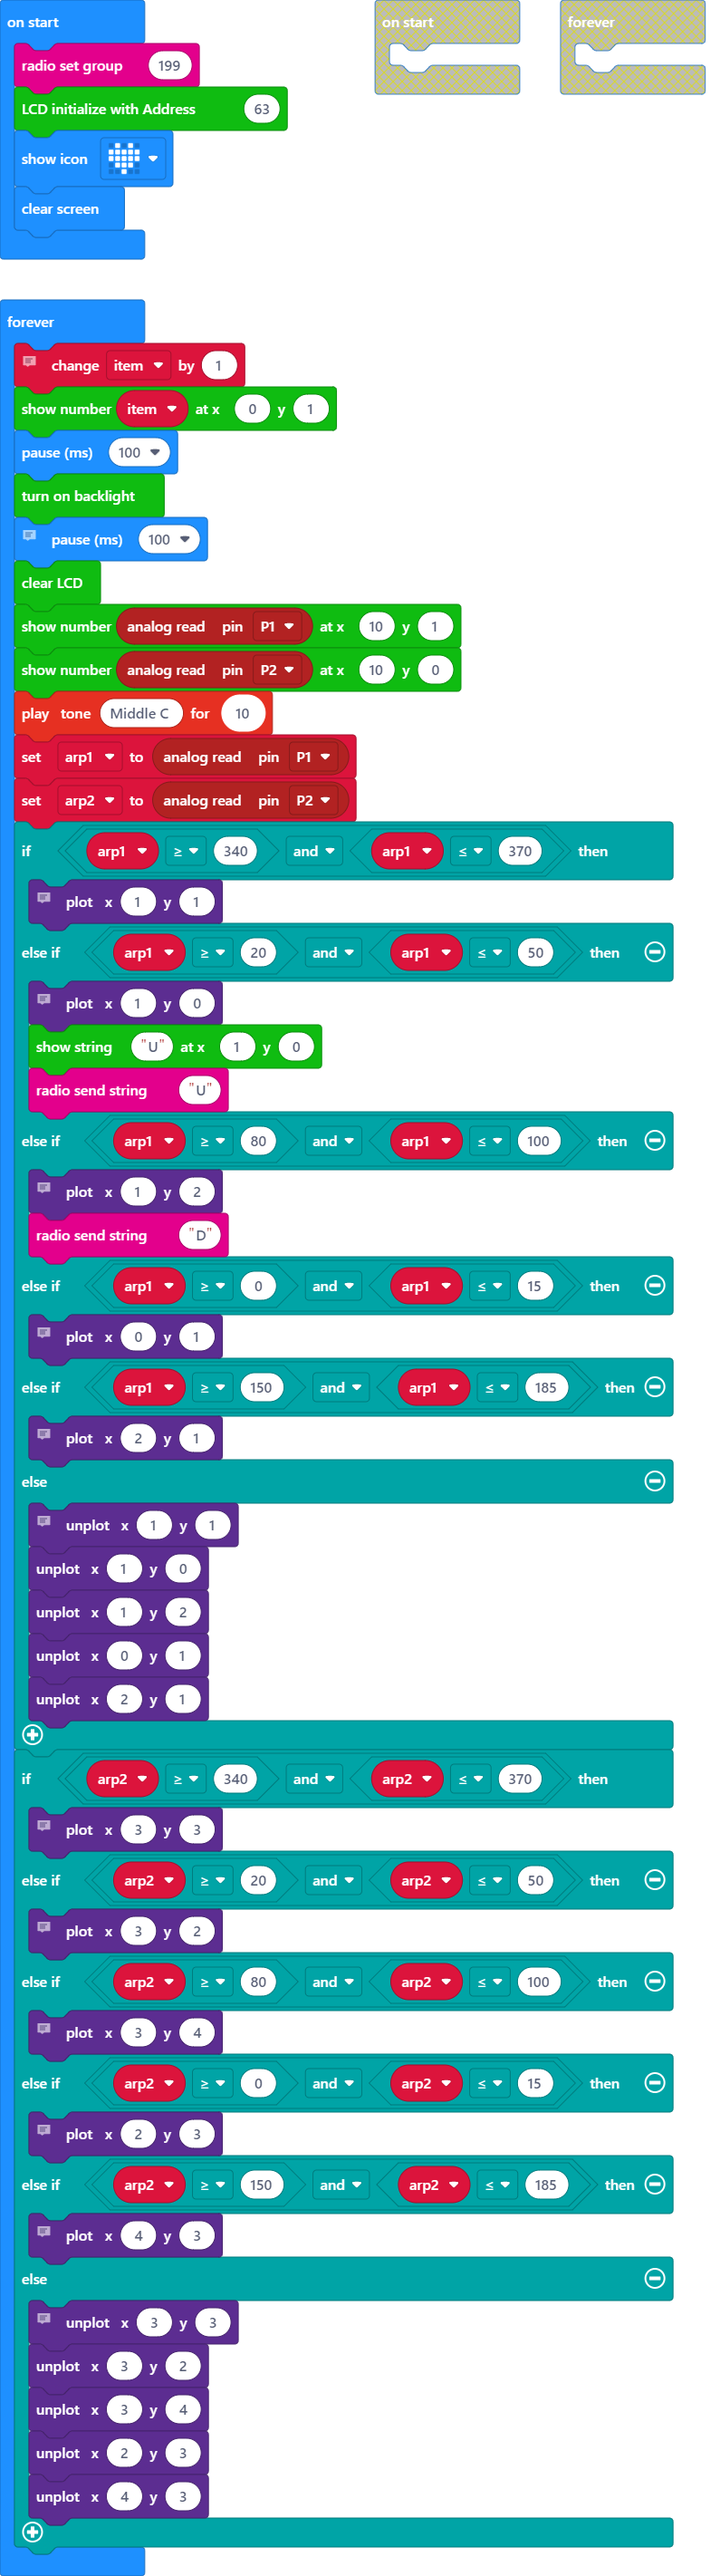
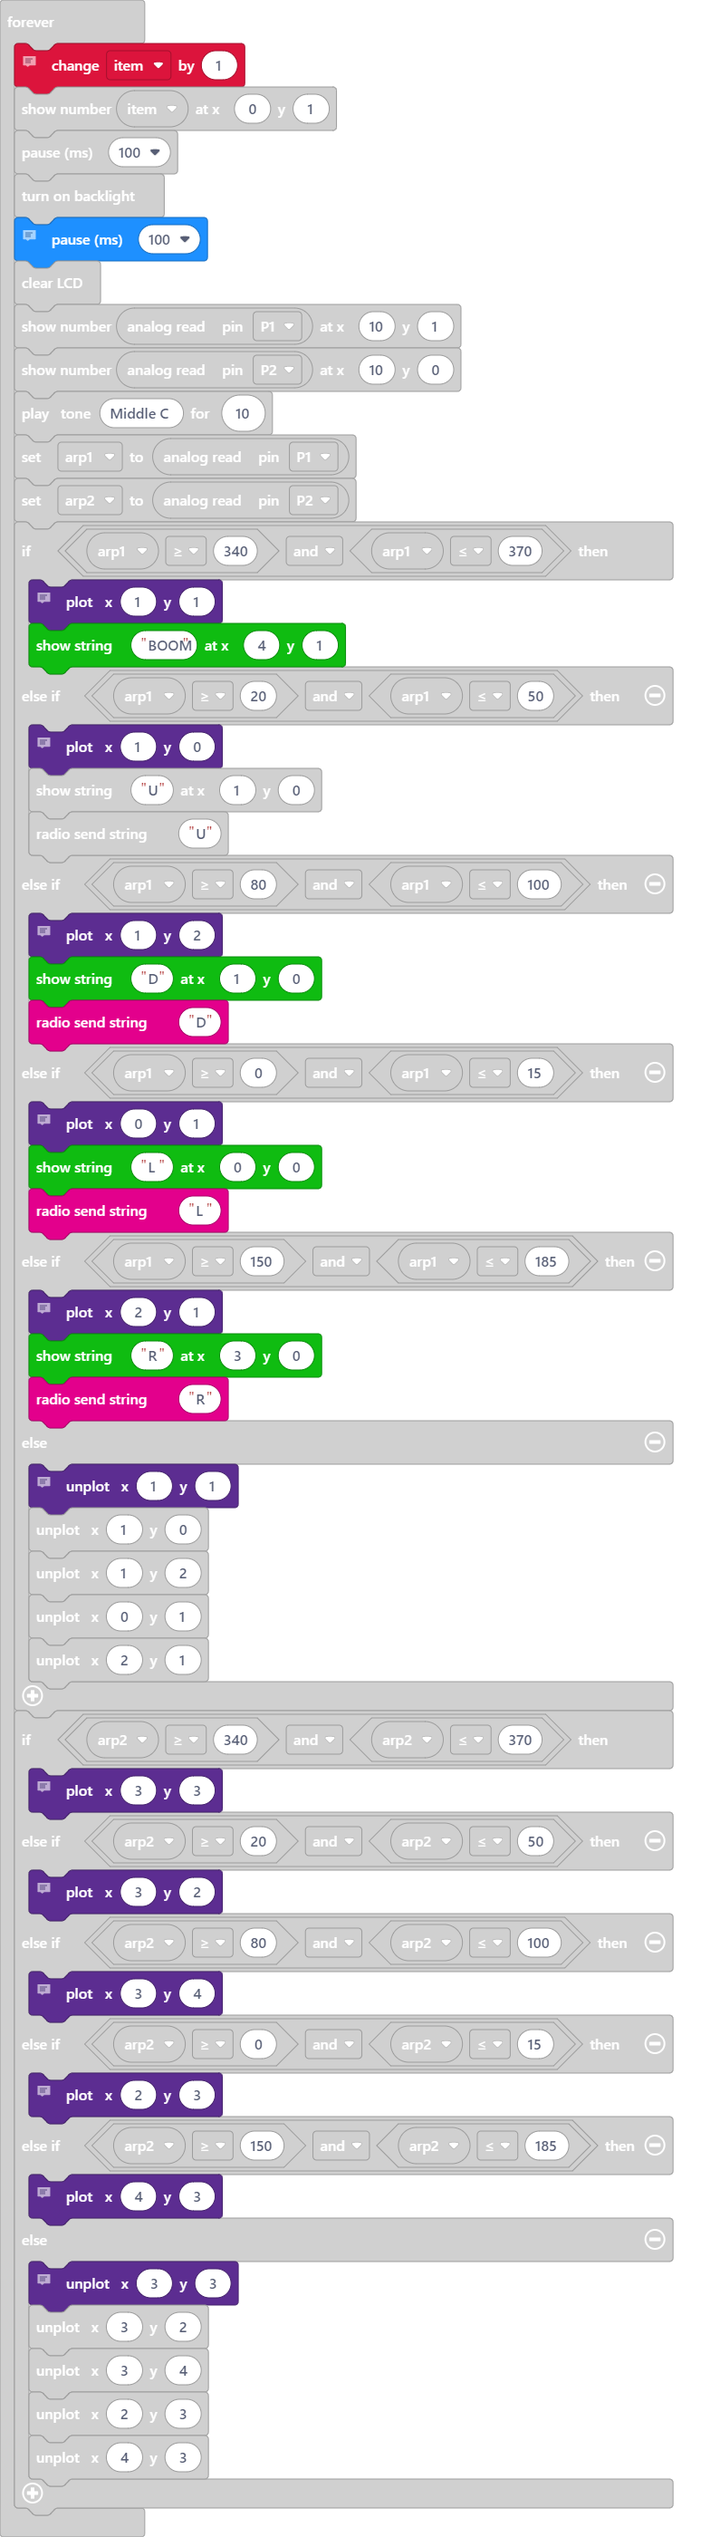
Update main.blocks, main.ts

diff --git a/main.ts b/main.ts
@@ -22,6 +22,7 @@ basic.forever(function () {
     if (arp1 >= 340 && arp1 <= 370) {
         // FIRE
         led.plot(1, 1)
+        I2C_LCD1602.ShowString("BOOM", 4, 1)
     } else if (arp1 >= 20 && arp1 <= 50) {
         // UP
         led.plot(1, 0)
@@ -30,13 +31,18 @@ basic.forever(function () {
     } else if (arp1 >= 80 && arp1 <= 100) {
         // DOWN
         led.plot(1, 2)
+        I2C_LCD1602.ShowString("D", 1, 0)
         radio.sendString("D")
     } else if (arp1 >= 0 && arp1 <= 15) {
         // LEFT
         led.plot(0, 1)
+        I2C_LCD1602.ShowString("L", 0, 0)
+        radio.sendString("L")
     } else if (arp1 >= 150 && arp1 <= 185) {
         // RIGHT
         led.plot(2, 1)
+        I2C_LCD1602.ShowString("R", 3, 0)
+        radio.sendString("R")
     } else {
         // EMPTY
         led.unplot(1, 1)
